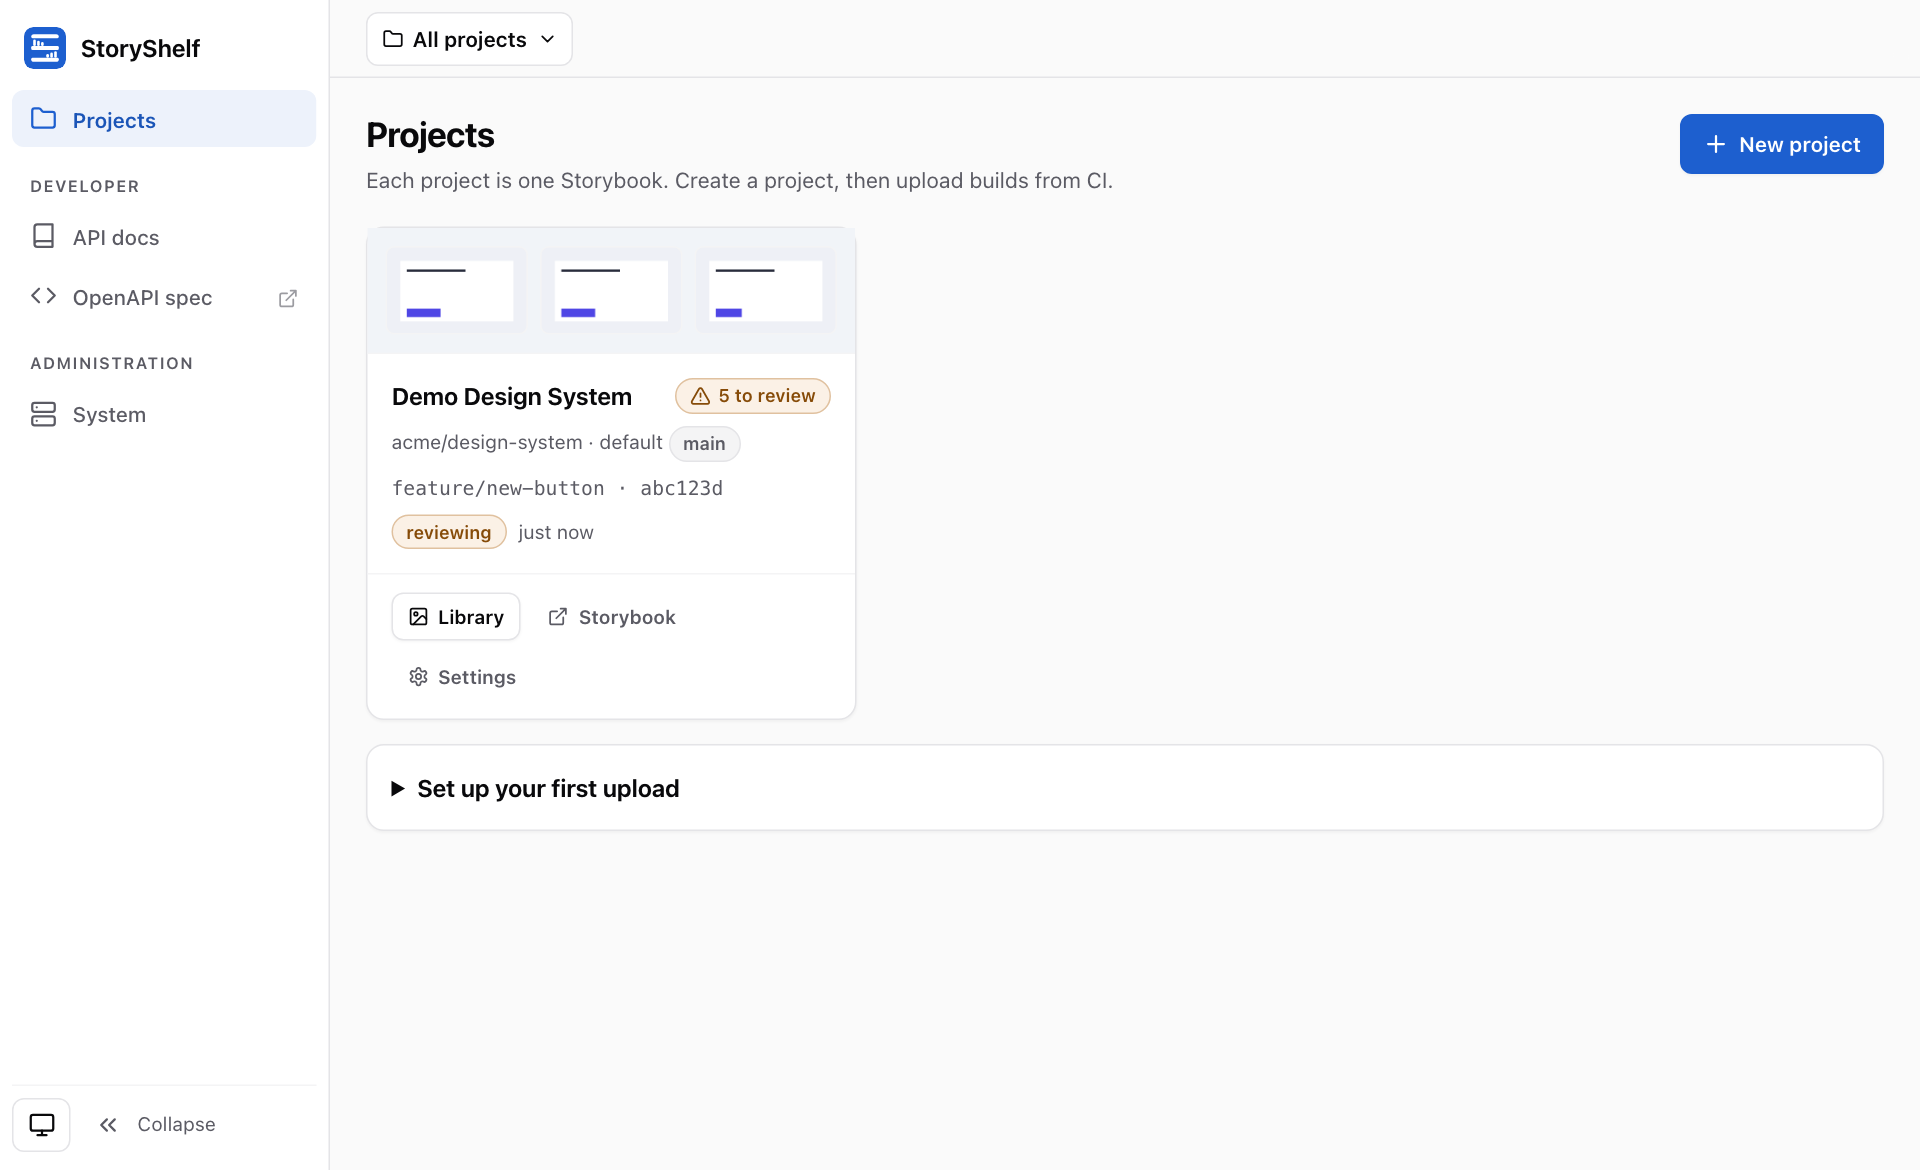
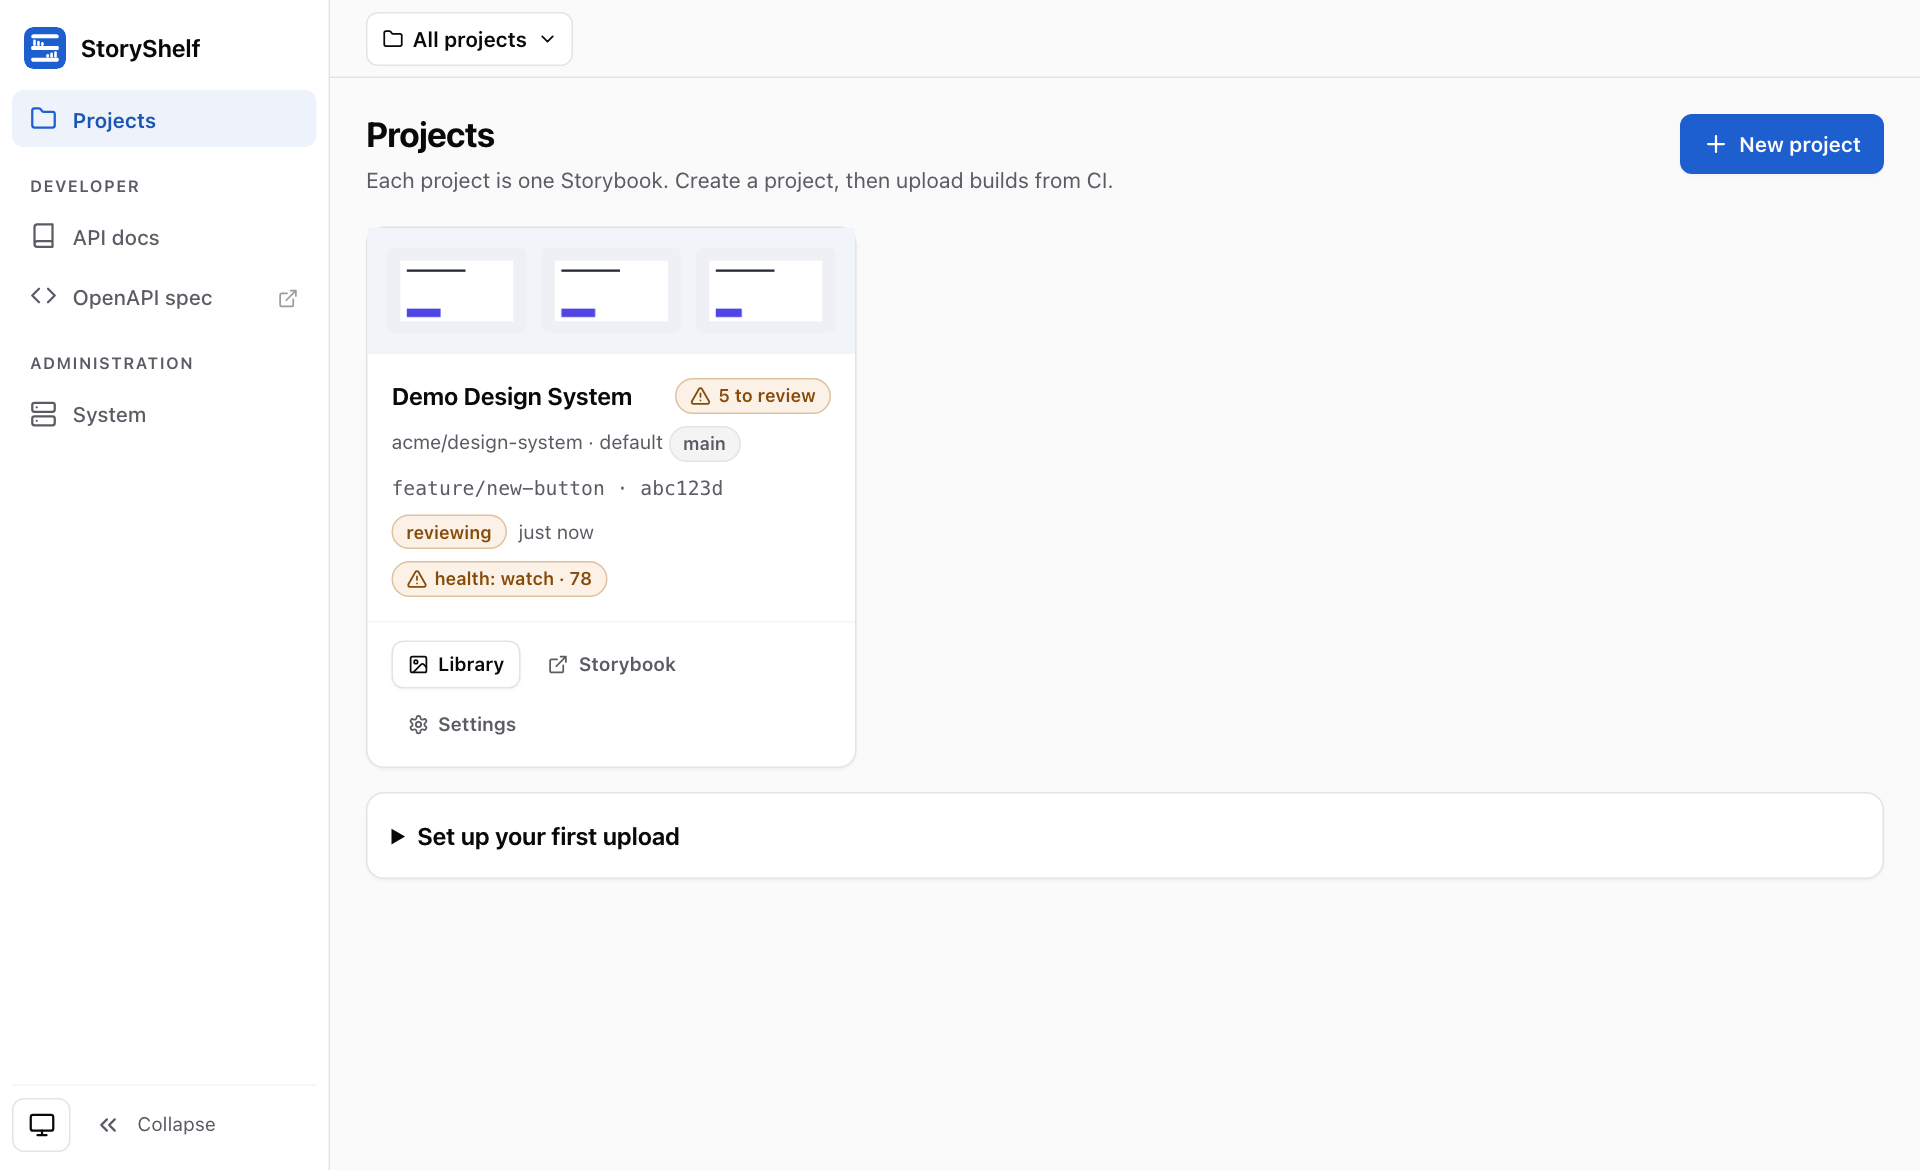
docs: AI screenshots, guides and project aiProfile API (ADR 0026)
- regenerate website screenshots and social card with AI panels seeded via a demo Ai
- AI insights guide gets screenshots; project settings, review and API guides updated
- PATCH /api/v1/projects/{slug} accepts aiProfile (site admins, validated)

Changed region(s): [[0.1875, 0.4615, 0.3438, 0.5846], [0.2188, 0.6154, 0.375, 0.7385]]

diff --git a/packages/app/src/routers/projects.ts b/packages/app/src/routers/projects.ts
@@ -3,6 +3,8 @@ import { LabelModel } from "@storyshelf/core/models";
 import { MemberModel } from "@storyshelf/core/models";
 import { ProjectModel } from "@storyshelf/core/models";
 import type { ProjectRole } from "@storyshelf/core/types";
+import type { Context } from "hono";
+import { HTTPException } from "hono/http-exception";
 import type { ShelfRouter } from "../app-types.ts";
 import { getStore } from "../store.ts";
 import { forbidden, requireSiteAdmin, resolveAuthorizedProject } from "./helpers.ts";
@@ -106,6 +108,18 @@ const deleteProjectRoute = createRoute({
   },
 });
 
+/** `aiProfile` is a site-admin data-flow decision; it must name a configured profile. */
+function assertAiProfileChange(c: Context, profile: string | null | undefined): void {
+  if (profile === undefined) {
+    return;
+  }
+  requireSiteAdmin(c);
+  const { ai } = getStore();
+  if (profile !== null && !ai?.profileNames().includes(profile)) {
+    throw new HTTPException(400, { message: `Unknown AI profile "${profile}"` });
+  }
+}
+
 /** Register the project list, create, fetch, update, and delete endpoints. */
 export function registerProjects(app: ShelfRouter): void {
   app.openapi(listProjectsRoute, async (c) => {
@@ -136,7 +150,9 @@ export function registerProjects(app: ShelfRouter): void {
   app.openapi(updateProjectRoute, async (c) => {
     const { slug } = c.req.valid("param");
     const project = await resolveAuthorizedProject(c, slug, ...ADMIN_ROLES);
-    const updated = await new ProjectModel(getStore().db).update(project.id, c.req.valid("json"));
+    const body = c.req.valid("json");
+    assertAiProfileChange(c, body.aiProfile);
+    const updated = await new ProjectModel(getStore().db).update(project.id, body);
     return c.json(updated);
   });
 

diff --git a/packages/app/src/routers/insights.integration.test.ts b/packages/app/src/routers/insights.integration.test.ts
@@ -307,3 +307,24 @@ describe("stale runs", () => {
     expect(latest).toMatchObject({ status: "failed", errorCode: "interrupted" });
   });
 });
+
+describe("project PATCH aiProfile", () => {
+  it("lets site admins set a known profile or null, rejects others", async () => {
+    const { db, storage } = await seed(null);
+    const app = appWith(db, storage, fakeAi());
+    const patch = (who: keyof typeof users, body: unknown) =>
+      app.request("/api/v1/projects/p", {
+        method: "PATCH",
+        headers: cookie(who),
+        body: JSON.stringify(body),
+      });
+    expect((await patch("admin", { aiProfile: "ghost" })).status).toBe(400);
+    expect((await patch("admin", { aiProfile: "thorough" })).status).toBe(200);
+    const project = (await (
+      await app.request("/api/v1/projects/p", { headers: cookie("viewer") })
+    ).json()) as { aiProfile?: string };
+    expect(project.aiProfile).toBe("thorough");
+    expect((await patch("admin", { aiProfile: null })).status).toBe(200);
+    expect((await patch("approver", { aiProfile: "default" })).status).toBe(403);
+  });
+});

diff --git a/packages/app/src/routers/schemas.ts b/packages/app/src/routers/schemas.ts
@@ -20,6 +20,8 @@ export const projectSchema = z
     playTimeoutMs: z.number(),
     // Stored rows predate enum validation, so the response stays a plain string.
     browser: z.string().optional(),
+    /** AI profile gate: null/absent = AI off for this project. */
+    aiProfile: z.string().nullable().optional(),
     createdAt: z.string(),
     updatedAt: z.string(),
   })
@@ -50,6 +52,8 @@ export const projectUpdateSchema = z
     executePlay: z.boolean().optional(),
     playTimeoutMs: z.number().int().min(1000).max(30_000).optional(),
     browser: z.enum(BROWSER_NAMES).optional(),
+    /** Site admins only: a configured AI profile name, or null to turn AI off. */
+    aiProfile: z.string().min(1).nullable().optional(),
   })
   .openapi("ProjectUpdateInput");
 

diff --git a/apps/website/src/content/docs/guides/api.md b/apps/website/src/content/docs/guides/api.md
@@ -53,6 +53,7 @@ Unconfigured servers (no auth adapter) accept all requests.
 | Members | `/api/v1/projects/{slug}/members` | Project-scoped roles |
 | Tokens | `/api/v1/projects/{slug}/tokens` | CI access tokens |
 | Webhooks | `/api/v1/projects/{slug}/webhooks` | Outbound event notifications |
+| Insights | `/api/v1/projects/{slug}/builds/{id}/insights`, `/api/v1/projects/{slug}/insights/health` | AI build triage and project health ([AI insights](/guides/ai-insights/)) |
 | Admin | `/api/v1/admin` | Site-wide operations (retention purge) |
 
 ## Walkthrough: upload a build
